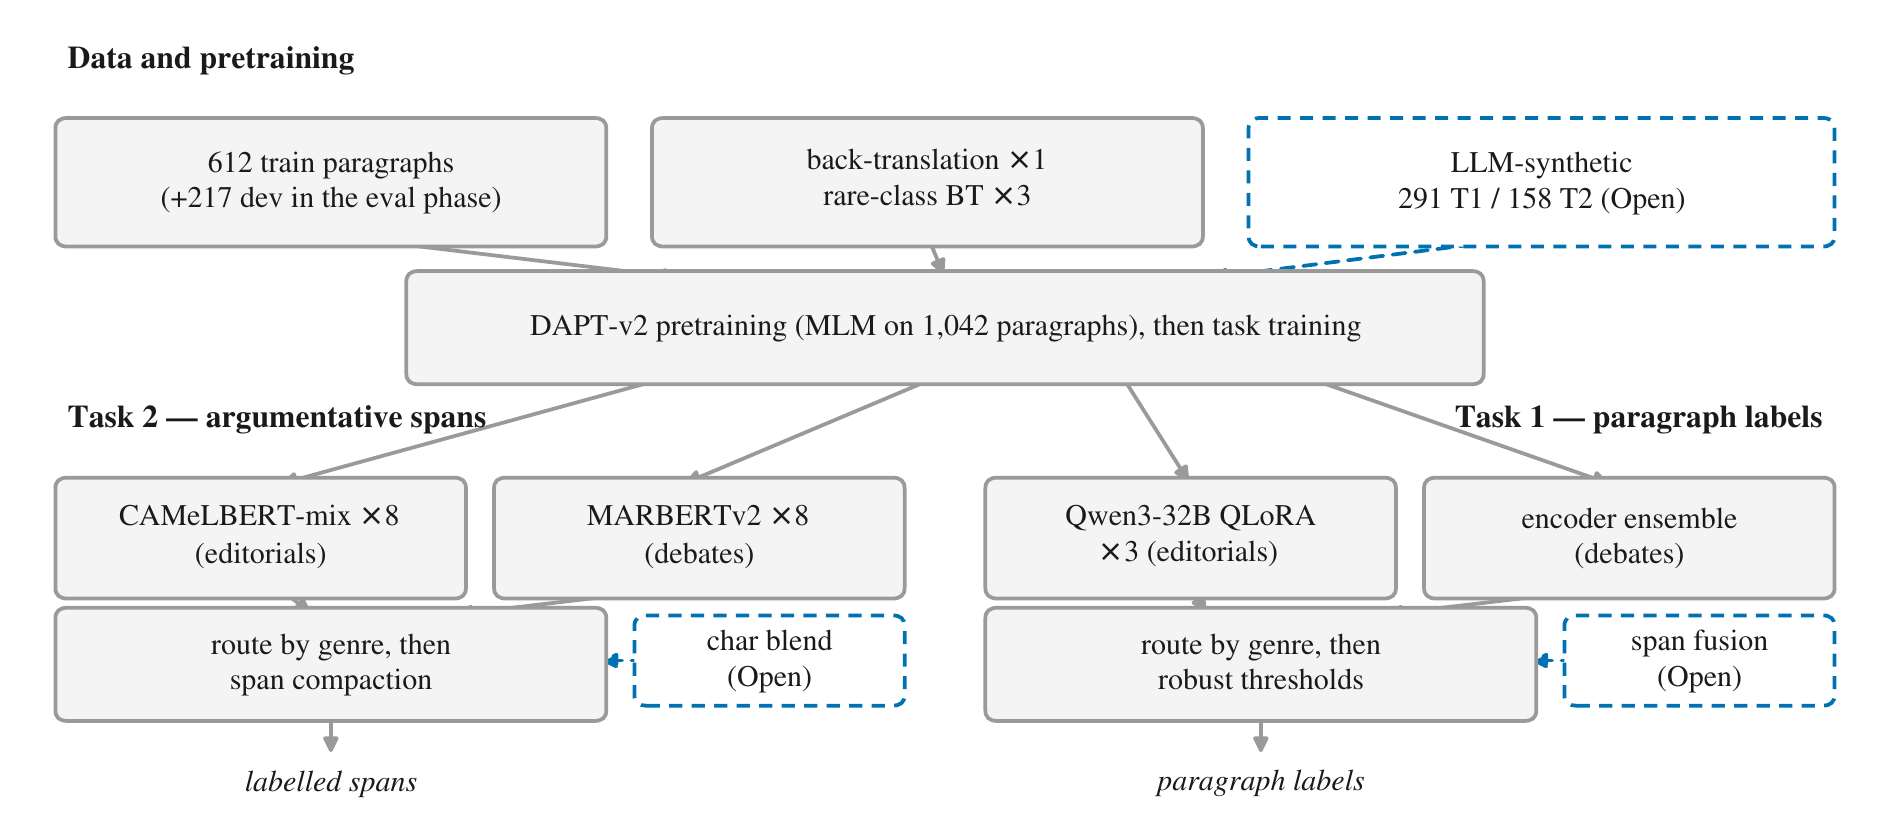
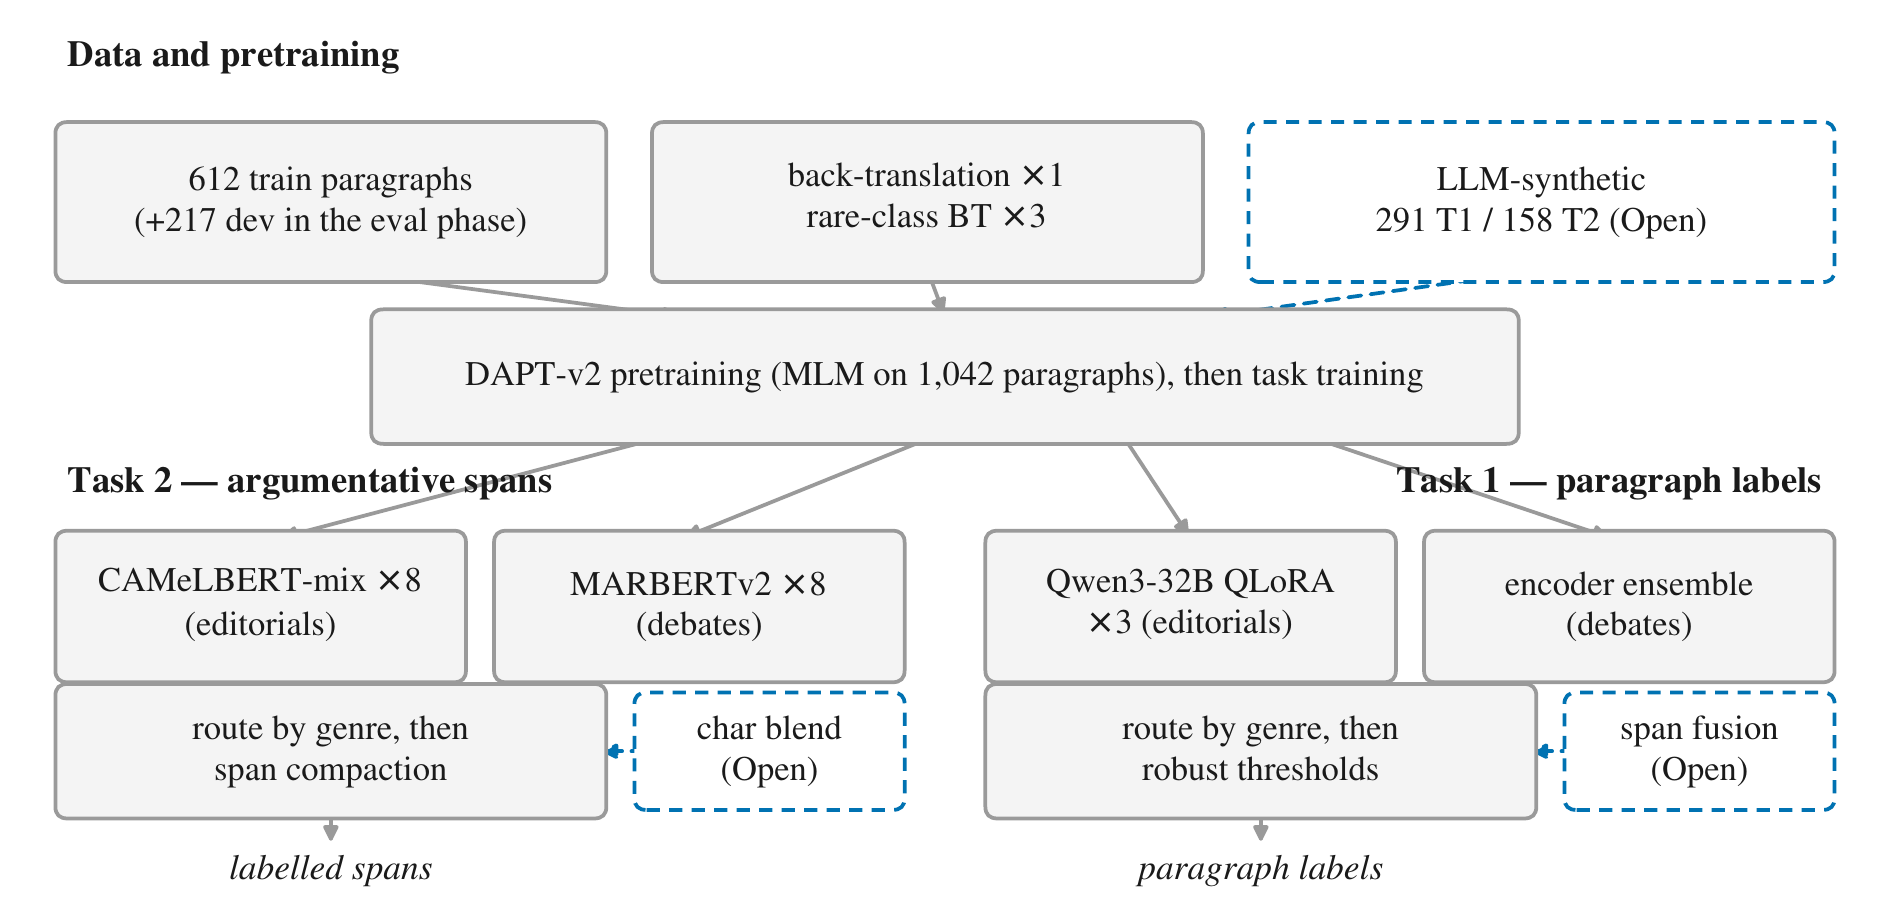
Widen pipeline diagram

diff --git a/paper_analysis/pipeline_fig.py b/paper_analysis/pipeline_fig.py
@@ -13,11 +13,11 @@ plt.rcParams.update({
 })
 
 INK, GRAY, BLUE, FILL = "#1a1a1a", "#9a9a9a", "#0072B2", "#f4f4f4"
-FS = 7.2
+FS = 8.3
 
-fig, ax = plt.subplots(figsize=(6.3, 2.72))
+fig, ax = plt.subplots(figsize=(6.3, 3.05))
 ax.set_xlim(-7, 207)
-ax.set_ylim(-13, 92)
+ax.set_ylim(-14, 92)
 ax.axis("off")
 
 
@@ -40,50 +40,50 @@ def arrow(p1, p2, dashed=False, rad=0.0):
 
 
 def band(y, label, x=0, ha="left"):
-    ax.text(x, y, label, fontsize=7.6, fontweight="bold", color=INK,
+    ax.text(x, y, label, fontsize=8.8, fontweight="bold", color=INK,
             ha=ha, va="center")
 
 
 # ---------------- data band (full width) ----------------
-band(85, "Data and pretraining")
-box(0, 62, 60, 14, "612 train paragraphs\n(+217 dev in the eval phase)")
-box(68, 62, 60, 14, "back-translation $\\times$1\nrare-class BT $\\times$3")
-box(136, 62, 64, 14, "LLM-synthetic\n291 T1 / 158 T2 (Open)", dashed=True)
-box(40, 44, 120, 12, "DAPT-v2 pretraining (MLM on 1,042 paragraphs), then task training")
-arrow((30, 62), (70, 56.5))
-arrow((98, 62), (100, 56.5))
-arrow((168, 62), (130, 56.5), dashed=True)
+band(86, "Data and pretraining")
+box(0, 61, 60, 16, "612 train paragraphs\n(+217 dev in the eval phase)")
+box(68, 61, 60, 16, "back-translation $\\times$1\nrare-class BT $\\times$3")
+box(136, 61, 64, 16, "LLM-synthetic\n291 T1 / 158 T2 (Open)", dashed=True)
+box(36, 42, 128, 13, "DAPT-v2 pretraining (MLM on 1,042 paragraphs), then task training")
+arrow((30, 61), (70, 55.5))
+arrow((98, 61), (100, 55.5))
+arrow((168, 61), (130, 55.5), dashed=True)
 
 # ---------------- task 2 (left) ----------------
-band(38, "Task 2 — argumentative spans")
-box(0, 16, 44, 13, "CAMeLBERT-mix $\\times$8\n(editorials)")
-box(50, 16, 44, 13, "MARBERTv2 $\\times$8\n(debates)")
-arrow((70, 44), (24, 29.5))
-arrow((100, 44), (70, 29.5))
-box(0, 0, 60, 12, "route by genre, then\nspan compaction")
-box(66, 2, 28, 9, "char blend\n(Open)", dashed=True)
-arrow((24, 16), (28, 12.5))
-arrow((70, 16), (44, 12.5))
-arrow((66, 6.5), (60.5, 6.5), dashed=True)
+band(36, "Task 2 — argumentative spans")
+box(0, 14, 44, 15, "CAMeLBERT-mix $\\times$8\n(editorials)")
+box(50, 14, 44, 15, "MARBERTv2 $\\times$8\n(debates)")
+arrow((70, 42), (24, 29.5))
+arrow((100, 42), (70, 29.5))
+box(0, -2, 60, 13, "route by genre, then\nspan compaction")
+box(66, -1, 28, 11, "char blend\n(Open)", dashed=True)
+arrow((24, 14), (28, 11.5))
+arrow((70, 14), (44, 11.5))
+arrow((66, 4.5), (60.5, 4.5), dashed=True)
 
 # ---------------- task 1 (right) ----------------
-box(106, 16, 44, 13, "Qwen3-32B QLoRA\n$\\times$3 (editorials)")
-box(156, 16, 44, 13, "encoder ensemble\n(debates)")
-arrow((120, 44), (128, 29.5))
-arrow((140, 44), (176, 29.5))
-box(106, 0, 60, 12, "route by genre, then\nrobust thresholds")
-box(172, 2, 28, 9, "span fusion\n(Open)", dashed=True)
-arrow((128, 16), (130, 12.5))
-arrow((176, 16), (150, 12.5))
-arrow((172, 6.5), (166.5, 6.5), dashed=True)
+box(106, 14, 44, 15, "Qwen3-32B QLoRA\n$\\times$3 (editorials)")
+box(156, 14, 44, 15, "encoder ensemble\n(debates)")
+arrow((120, 42), (128, 29.5))
+arrow((140, 42), (176, 29.5))
+box(106, -2, 60, 13, "route by genre, then\nrobust thresholds")
+box(172, -1, 28, 11, "span fusion\n(Open)", dashed=True)
+arrow((128, 14), (130, 11.5))
+arrow((176, 14), (150, 11.5))
+arrow((172, 4.5), (166.5, 4.5), dashed=True)
 
-arrow((30, 0), (30, -6))
-arrow((136, 0), (136, -6))
-ax.text(30, -9.5, "labelled spans", fontsize=FS, style="italic",
+arrow((30, -2), (30, -6.5))
+arrow((136, -2), (136, -6.5))
+ax.text(30, -9.5, "labelled spans", fontsize=FS+0.2, style="italic",
         color=INK, ha="center", va="center")
-ax.text(136, -9.5, "paragraph labels", fontsize=FS, style="italic",
+ax.text(136, -9.5, "paragraph labels", fontsize=FS+0.2, style="italic",
         color=INK, ha="center", va="center")
-band(38, "Task 1 — paragraph labels", x=200, ha="right")
+band(36, "Task 1 — paragraph labels", x=200, ha="right")
 
 fig.tight_layout(pad=0.15)
 fig.savefig("/home/amal/Desktop/daleel2026/paper/figs/pipeline.pdf")
